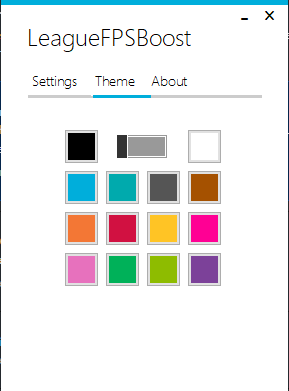
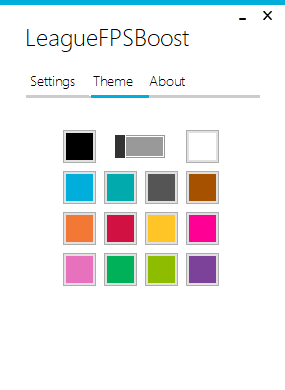
Image cropping and readme update

diff --git a/README.md b/README.md
@@ -27,21 +27,26 @@ A step by step series of examples that tell you how to get a program running
 3. One final step
    - Now after program has loaded up you just can leave it there and run the League Of Legends Client and leave the program running in background until you finish playing League Of Legends(not one game but for the day... and etc). It's important to leave program running in background at same time that League Of Legends Client does. Program works like supervisor for the game so leave it running.
 
-This is how it should look like with toggles set for best performance
+This is how it should look like with toggles set for best performance.
+
 ![Example of LeagueFPSBoost Version 4.0.0.0 set for best performance](ImagesForReadme/BestPerformanceExample.png)
 
 ## What tab and is for what
 
 Settings tab contains the main control of the program. They affect the game's performance.
+
 ![Example of LeagueFPSBoost Version 4.0.0.0 settings tab](ImagesForReadme/SettingsTabExample.png)
 
 Theme tab contains buttons and switch used to change the theme of the program.
+
 ![Example of LeagueFPSBoost Version 4.0.0.0 theme tab](ImagesForReadme/ThemeTabExample.png)
 
 About tab contains information about program and link at the bottom that shows current version. More information button opens new window with advanced controls of the program. More about it down below.
+
 ![Example of LeagueFPSBoost Version 4.0.0.0 about tab](ImagesForReadme/AboutTabExample.png)
 
 More Information window contains custom advanced program controls.
+
 ![Example of LeagueFPSBoost Version 4.0.0.0 more information window](ImagesForReadme/MoreInformationWindowExample.png)
 
 ### Settings Tab
